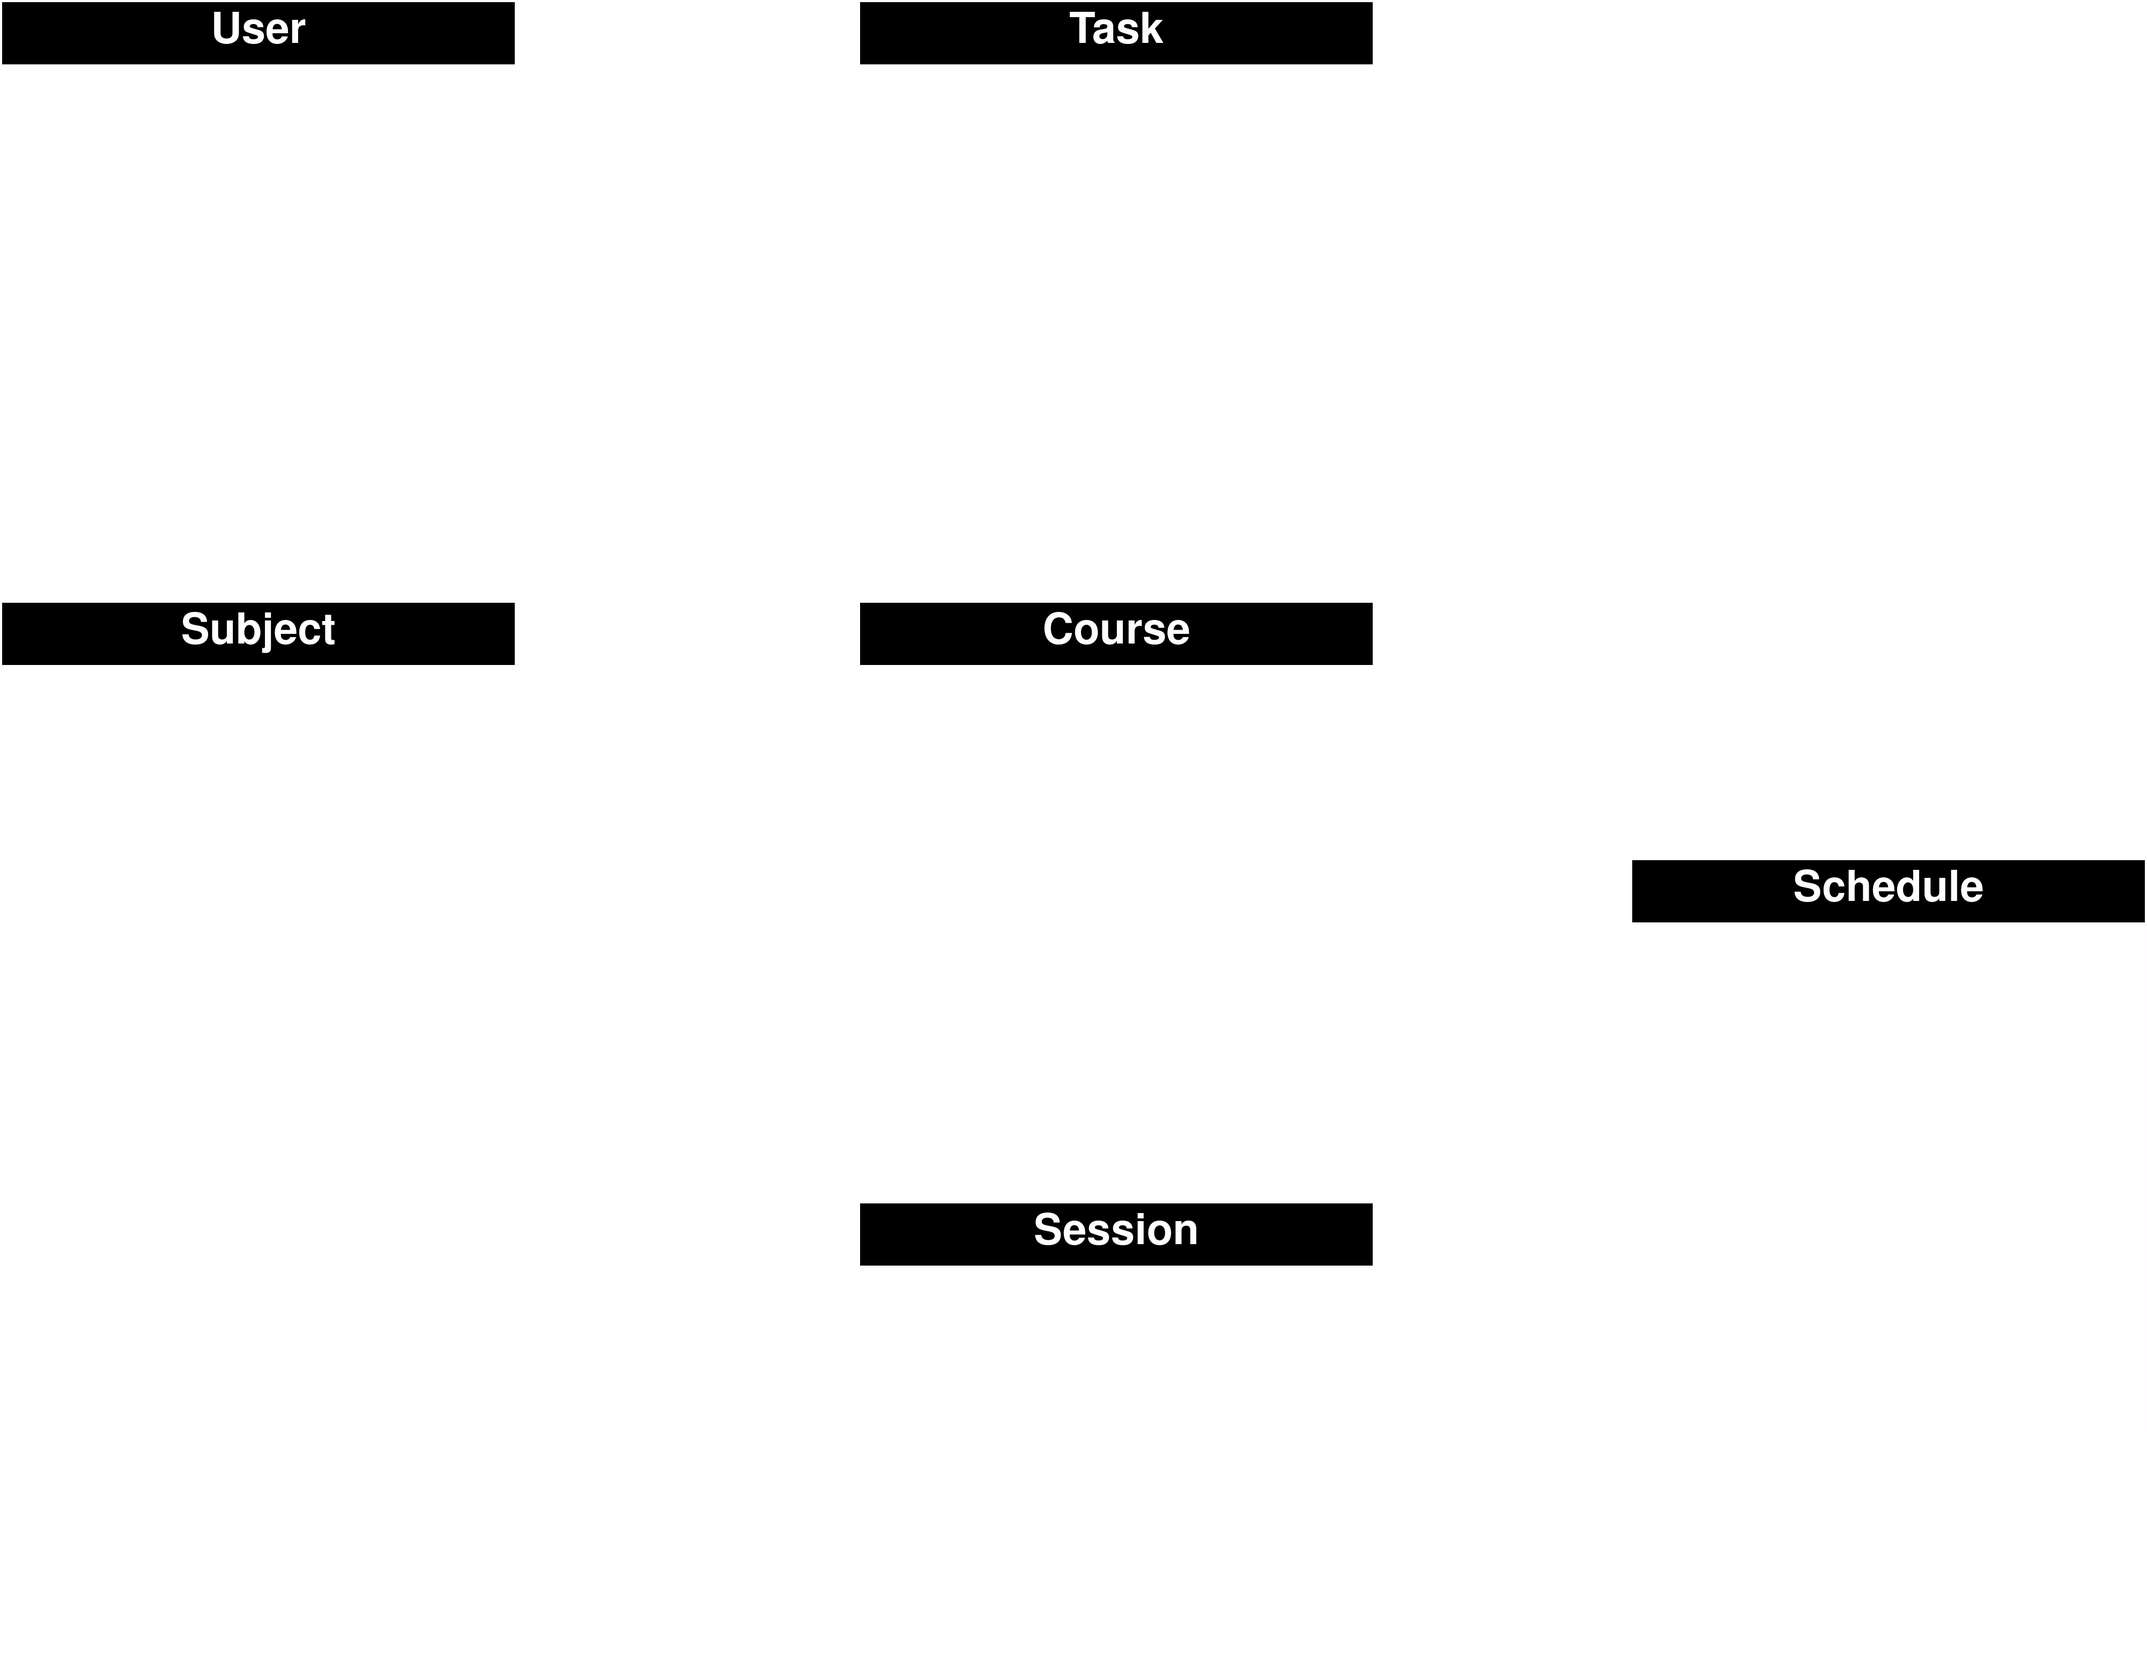
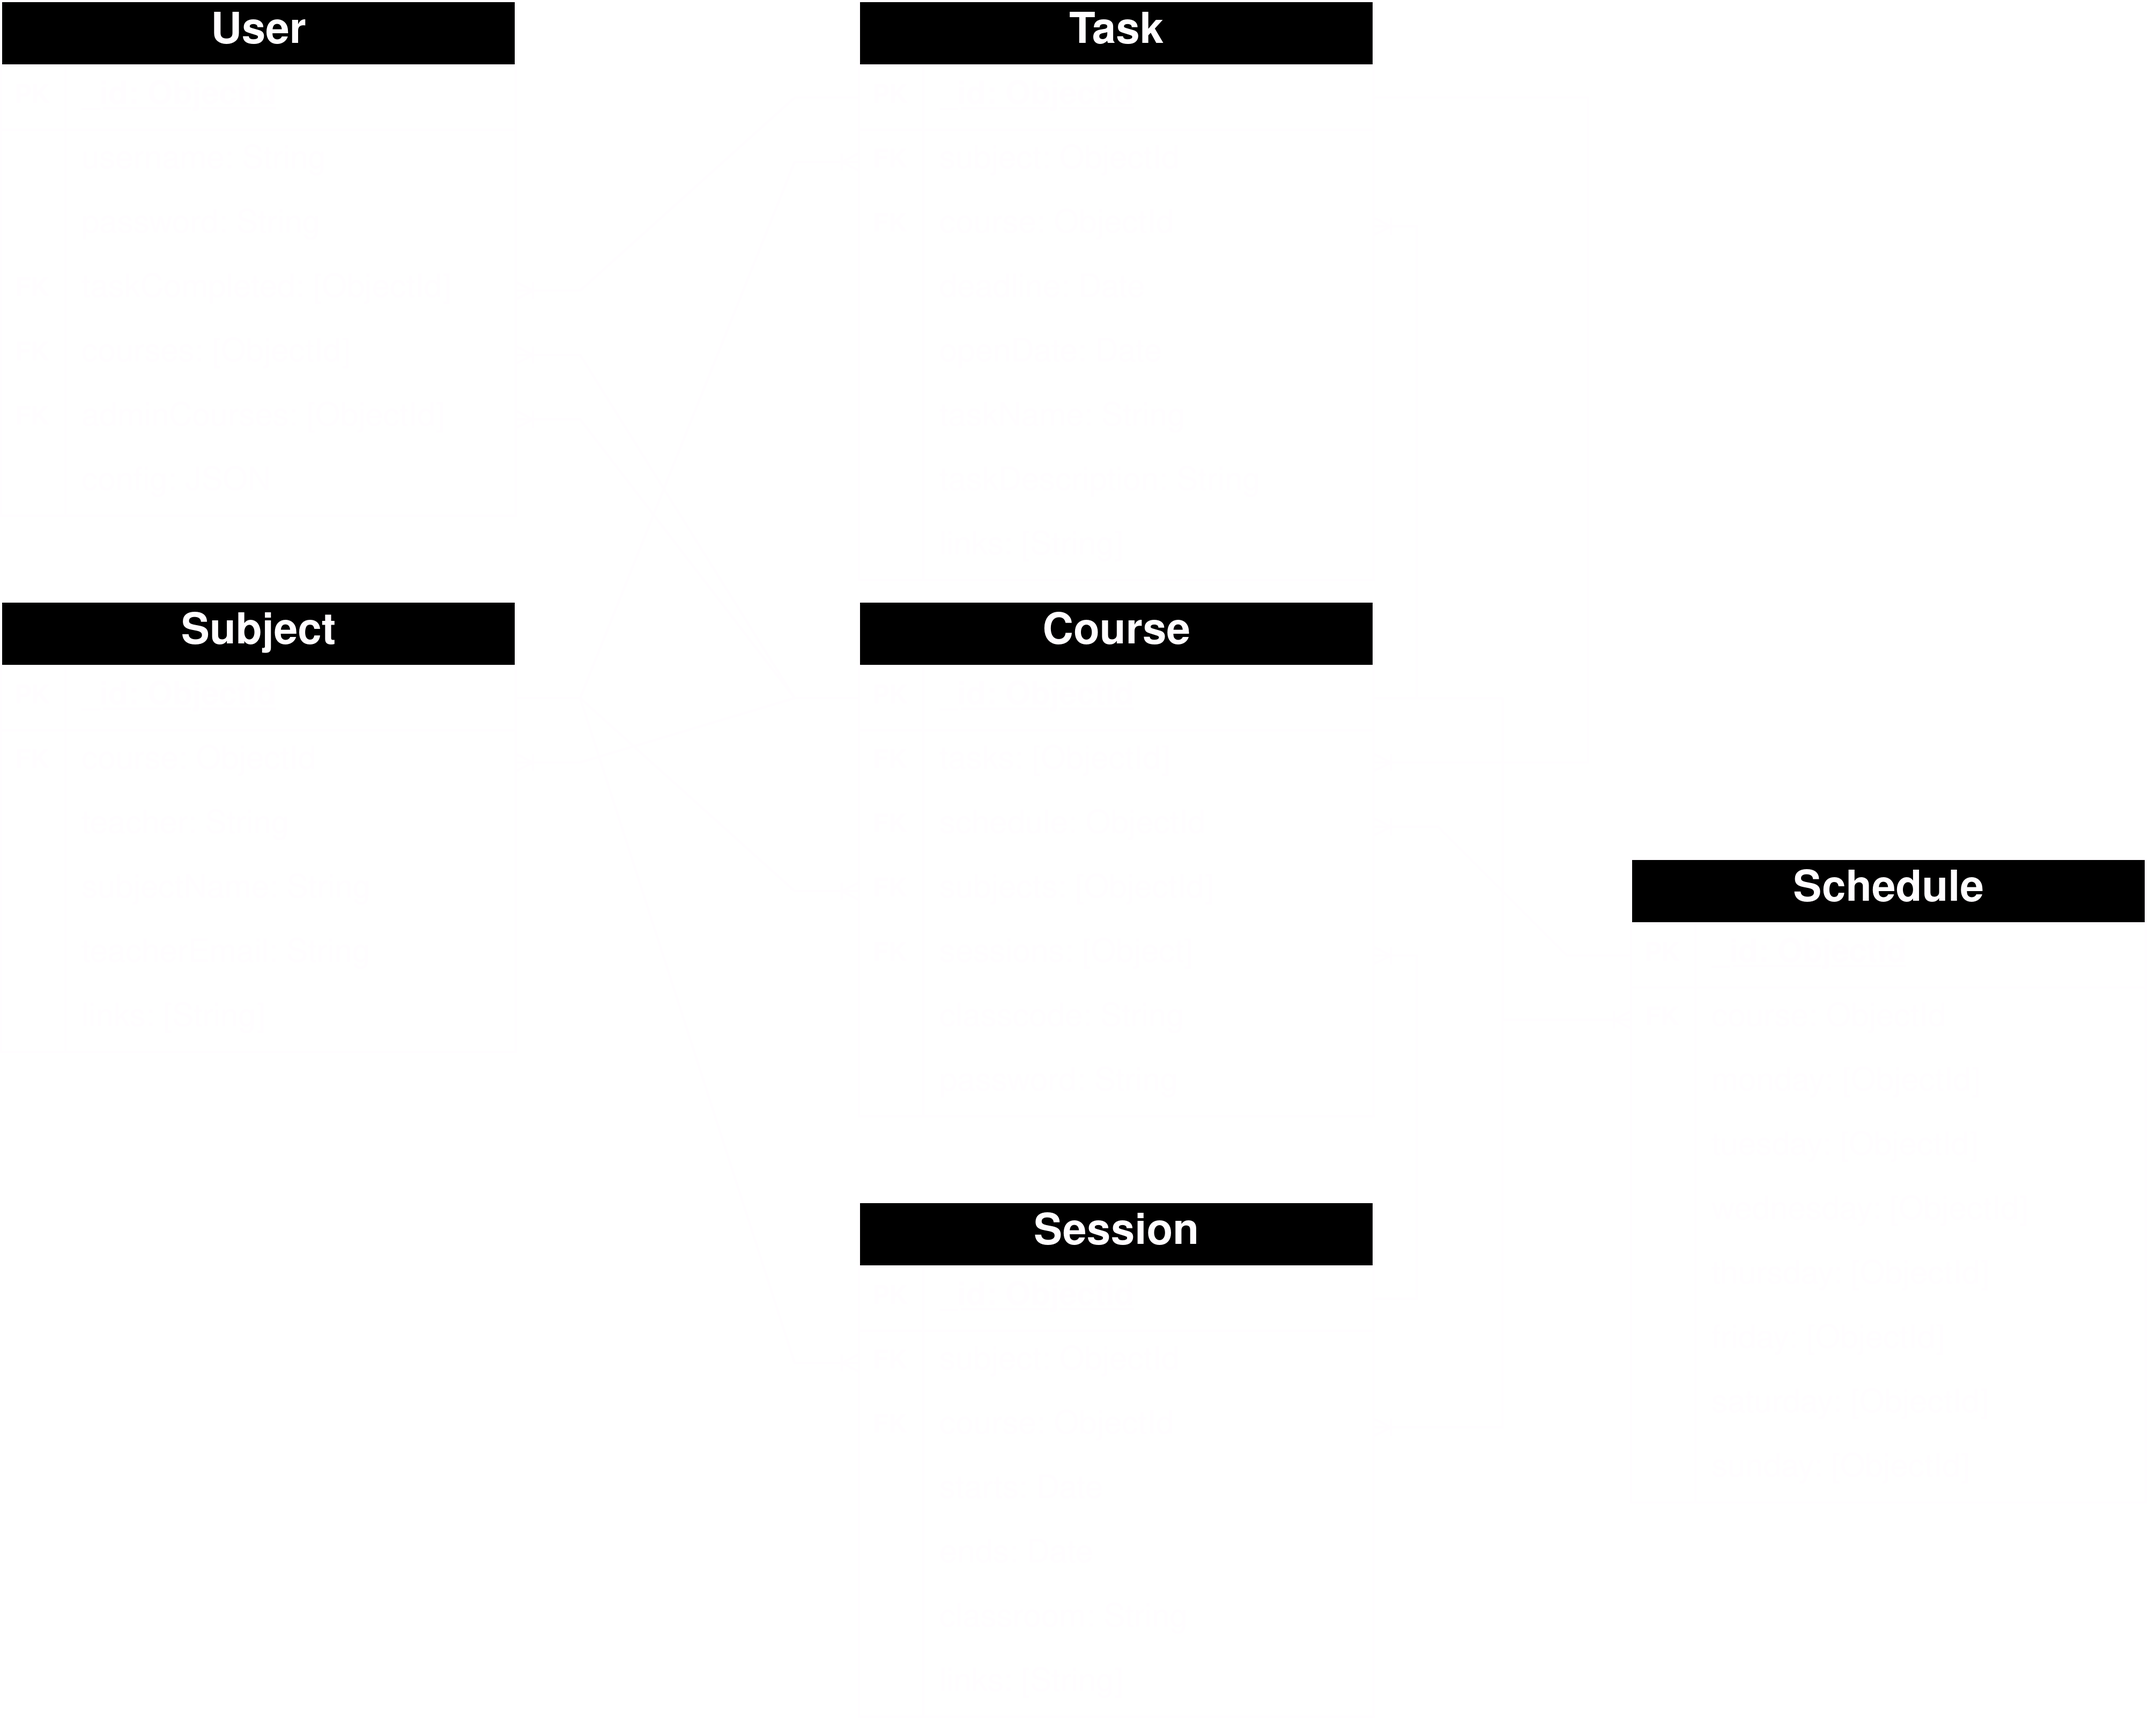
Course id added to models for access restrictions

diff --git a/src/models/Course/v1.js b/src/models/Course/v1.js
@@ -1,11 +1,9 @@
 import { model, Schema } from 'mongoose';
 
 const courseSchema = new Schema({
-  classCode: String,
+  classcode: String,
   password: String,
   schedule: Schema.ObjectId,
-  students: [Schema.ObjectId],
-  admins: [Schema.ObjectId],
   subjects: [Schema.ObjectId],
   tasks: [Schema.ObjectId],
   sessions: [Schema.ObjectId]

diff --git a/src/models/User/v1.js b/src/models/User/v1.js
@@ -3,8 +3,8 @@ import { model, Schema } from 'mongoose';
 const userSchema = new Schema({
   username: String,
   password: String,
-  studentClass: [Schema.ObjectId],
-  adminClass: [Schema.ObjectId],
+  courses: [Schema.ObjectId],
+  adminCourses: [Schema.ObjectId],
   tasksCompleted: [Schema.ObjectId],
   config: {}
 });

diff --git a/src/models/Subject/v1.js b/src/models/Subject/v1.js
@@ -1,9 +1,11 @@
 import { model, Schema } from 'mongoose';
 
 const subjectSchema = new Schema({
-  classID: Schema.ObjectId,
+  course: Schema.ObjectId,
   teacher: String,
-  subject: String
+  teacherEmail: String,
+  subjectName: String,
+  links: [String]
 });
 
 export const Subject = model('Subject', subjectSchema);

diff --git a/src/models/Schedule/v1.js b/src/models/Schedule/v1.js
@@ -1,7 +1,7 @@
 import { model, Schema } from 'mongoose';
 
 const scheduleSchema = new Schema({
-  classID: Schema.ObjectId,
+  course: Schema.ObjectId,
   monday: [Schema.ObjectID], // Session Id
   tuesday: [Schema.ObjectID],
   wednesday: [Schema.ObjectID],

diff --git a/src/models/Task/v1.js b/src/models/Task/v1.js
@@ -1,8 +1,8 @@
 import { model, Schema } from 'mongoose';
 
 const taskSchema = new Schema({
-  classID: Schema.ObjectId,
   subject: Schema.ObjectId,
+  course: Schema.ObjectId,
   deadline: Date,
   openDate: Date,
   taskName: String,

diff --git a/src/models/Session/v1.js b/src/models/Session/v1.js
@@ -1,8 +1,8 @@
 import { model, Schema } from 'mongoose';
 
 const sessionSchema = new Schema({
-  classID: Schema.ObjectId,
   subject: Schema.ObjectId,
+  course: Schema.ObjectId,
   starts: Date,
   ends: Date,
   classroom: String,

diff --git a/docs/APIv1 DB Schemas/APIv1 DB Schemas.md b/docs/APIv1 DB Schemas/APIv1 DB Schemas.md
@@ -73,6 +73,7 @@ You can see a the logical schema of the DB in the image below.
 ```javascript
 {
  "_id": ObjectID, // Assigned by MongoDB
+ "course": ObjectID,
  "teacher": String,
  "teacherEmail": String,
  "subjectName": String,
@@ -90,6 +91,7 @@ You can see a the logical schema of the DB in the image below.
 {
  "_id": ObjectID, // Assigned by MongoDB
  "subject": ObjectID,
+ "course": ObjectID,
  "deadline": Date,
  "openDate": Date,
  "taskName": String,
@@ -111,6 +113,7 @@ You can see a the logical schema of the DB in the image below.
 ```javascript
 {
   "_id": ObjectID, // Assigned by MongoDB
+  "course": ObjectID,
   "monday": [ObjectID],  // Session Id
   "tuesday": [ObjectID],
   "wednesday": [ObjectID],
@@ -135,6 +138,7 @@ You can see a the logical schema of the DB in the image below.
 {
  "_id": ObjectID, // Assigned by MongoDB
  "subject": ObjectID,
+ "course": ObjectID,
  "starts": Date,
  "ends": Date,
  "classroom": String,
